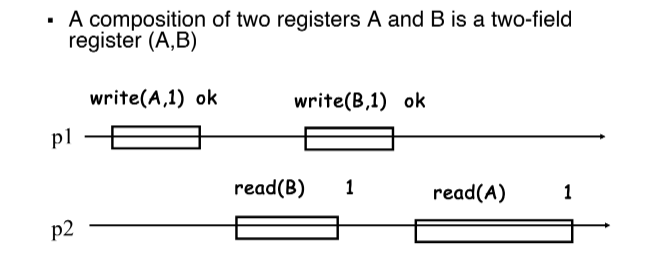
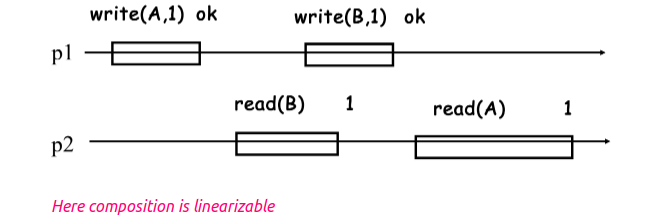
ds 19.09

diff --git a/3-fall2023/Distributed systems.md b/3-fall2023/Distributed systems.md
@@ -388,7 +388,35 @@ The history is linearizable. Now `write(3)` can never be completed or completed 
 
 
 
-If you have two linearizable objects $A$ and $B$ and you have some concurrent history $H$ on them, then $H$ can be seen as a linearizable history of a composition (Cartesian product) of $A$ and $B$. 
+
+
+#### Linearizable composition
+
+If you have two linearizable objects $A$ and $B$ and you have some concurrent history $H$ on them, then $H$ can be seen as a linearizable history of a **composition** (Cartesian product) of $A$ and $B$. 
+
+A composition of registers $A$ and $B$ is a two-field register $(A, B)$. 
+
+<img src="./pics for conspects/DS/DS 23-09-19 6.png" alt="DS 23-09-19 6" style="zoom:60%;" />
+
+<img src="./pics for conspects/DS/DS 23-09-19 7.png" alt="DS 23-09-19 7" style="zoom:60%;" />
+
+
+
+
+
+#### Linearizability is nonblocking
+
+Every incomplete operation in a finite history can be independently completed. 
+
+In other words, if you have an incomplete history in some process, there always exists a way to complete it without affecting other processes. 
+
+<img src="./pics for conspects/DS/DS 23-09-19 8.png" alt="DS 23-09-19 8" style="zoom:60%;" />
+
+
+
+
+
+
 
 
 
